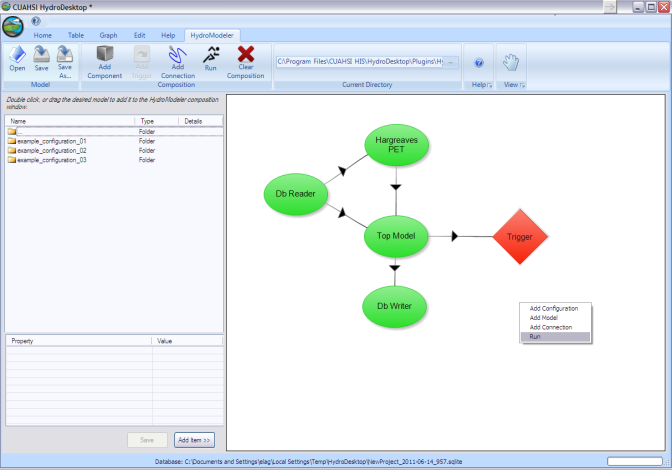
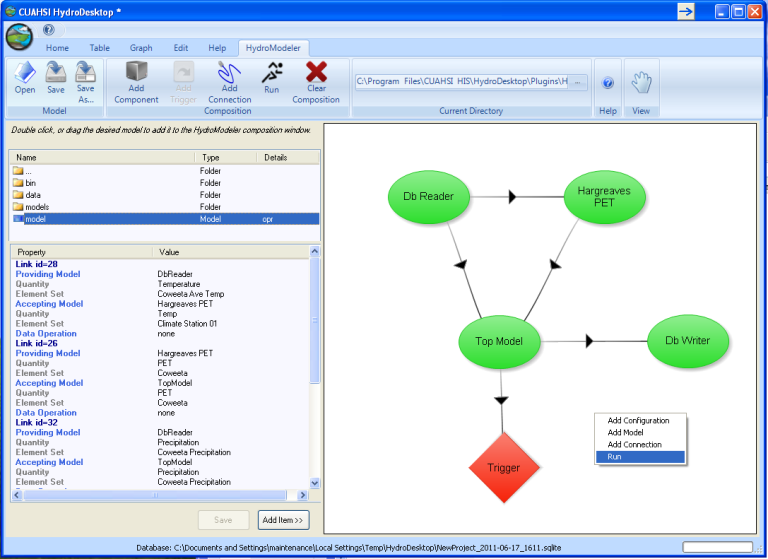
Add 2 simulation progress figures to Tutorial02, update run.png in tutorial 02 images

diff --git a/Documentation/OnlineHelp/source/extensions/HydroModeler/Tutorial02.rst b/Documentation/OnlineHelp/source/extensions/HydroModeler/Tutorial02.rst
@@ -106,3 +106,17 @@ Composite Creation
 .. figure:: ./images/Tutorial02/runsetup.png
    :align: center
 .
+
+18.	Simulation running.
+
+.. figure:: ./images/Tutorial02/duringruning.png
+   :align: center
+.
+
+19.	Simulation finish succesfully.
+
+.. figure:: ./images/Tutorial02/finishsuccess.png
+   :align: center
+.
+
+20. Go for the table tab.
